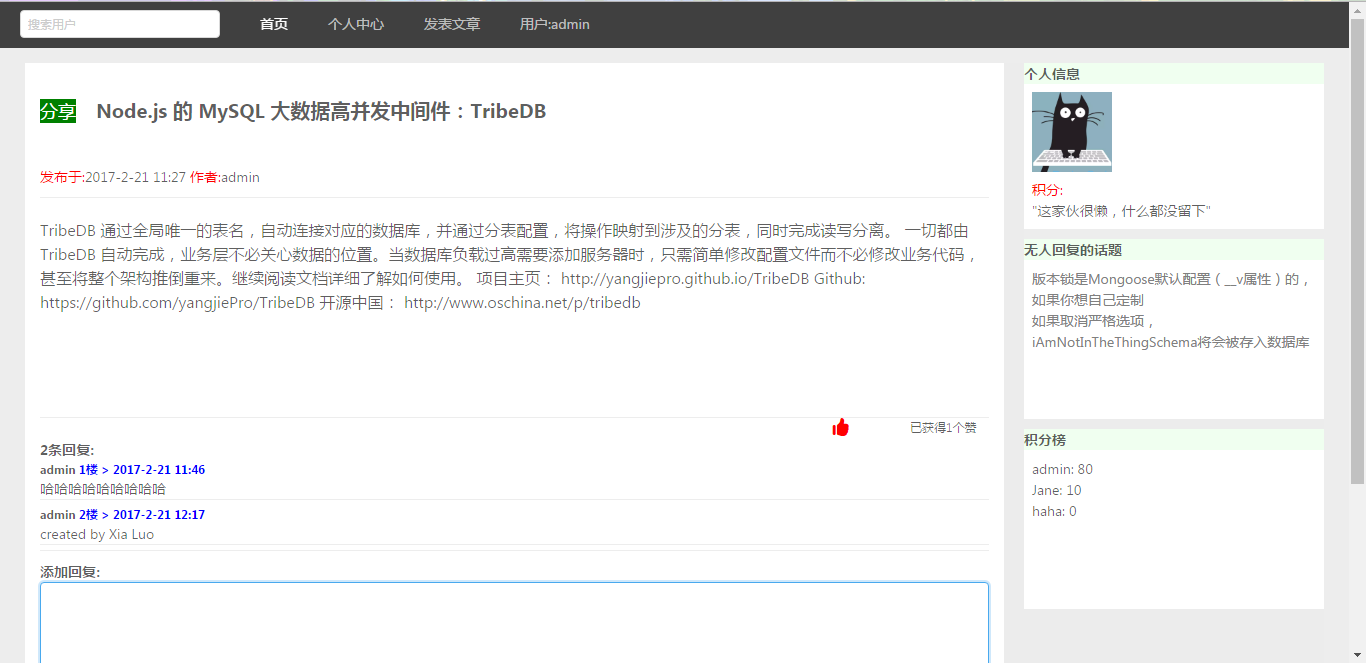
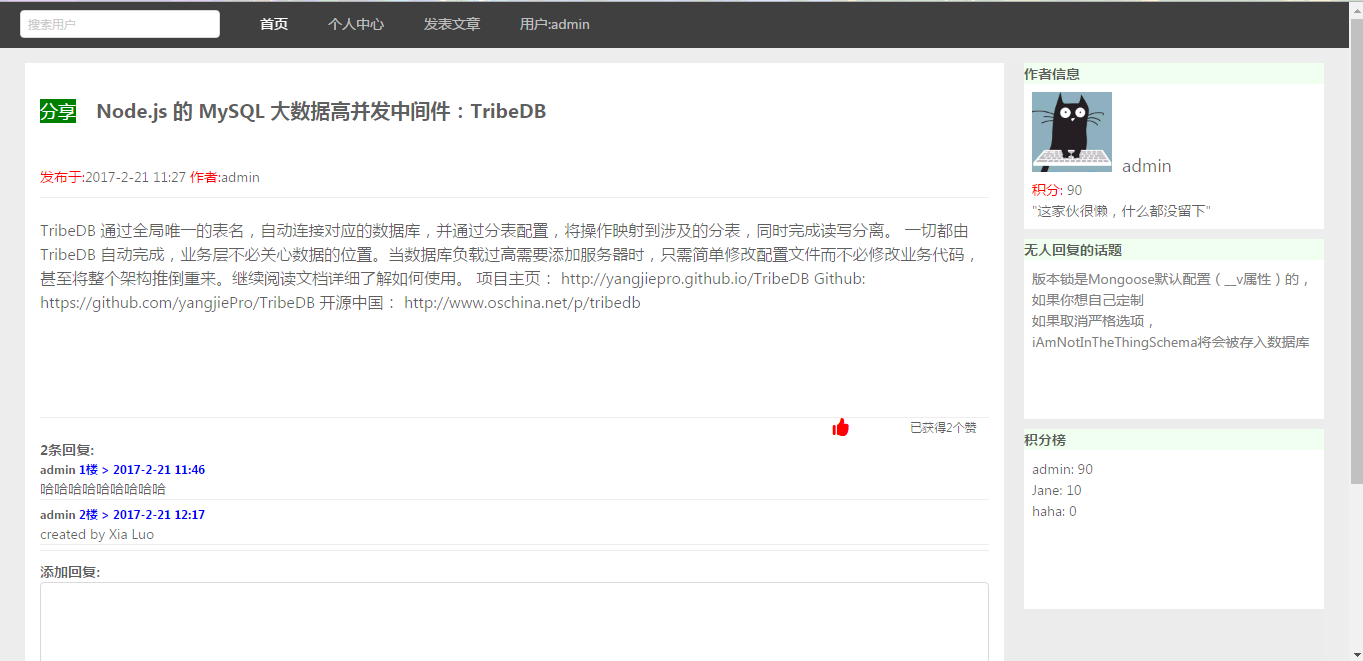
the information of author

diff --git a/common/components/Side.js b/common/components/Side.js
@@ -25,11 +25,15 @@ export default class Side extends React.Component {
         })
     }
     render(){
-        const {user,postsHaveNoComment} = this.props;
+        const {user,postsHaveNoComment,isOther} = this.props;
         return (
             <div>
                 <div style={{backgroundColor:'white',marginBottom:'10px'}}>
-                    <h4 style={{backgroundColor:'#F0FFF0'}}>个人信息</h4>
+                    <h4 style={{backgroundColor:'#F0FFF0'}}>
+                        {
+                            isOther ? <span>作者信息</span> : <span>用户信息</span>
+                        }
+                    </h4>
                     <div style={{padding:'8px'}}>
                         <img src="https://avatars.githubusercontent.com/u/16136702?v=3&s=120" style={{height:'80px'}}></img>
                         <span style={{fontSize:'18px',marginLeft:'10px'}}>{user.name}</span>

diff --git a/common/components/Item.js b/common/components/Item.js
@@ -152,7 +152,7 @@ class Item extends React.Component {
                         </Layout>
                     </Content>
                     <Sider width="300" style={{backgroundColor:'#EDEDED',height:'180px'}}>
-                        <Side user={this.state.authorInfo} postsHaveNoComment={postsHaveNoComment}/>
+                        <Side user={this.state.authorInfo} isOther={true}postsHaveNoComment={postsHaveNoComment}/>
                     </Sider>
                 </Layout>
             </div>
